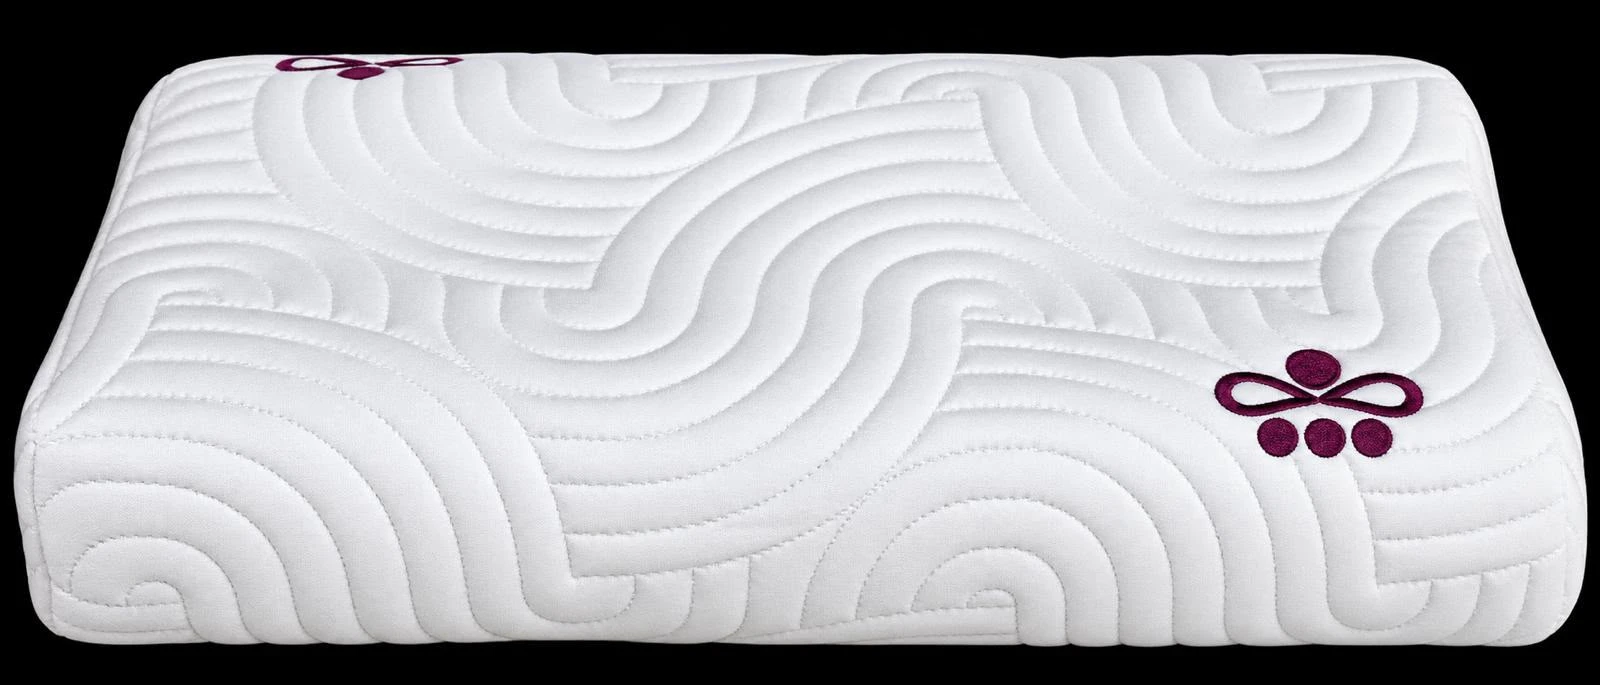
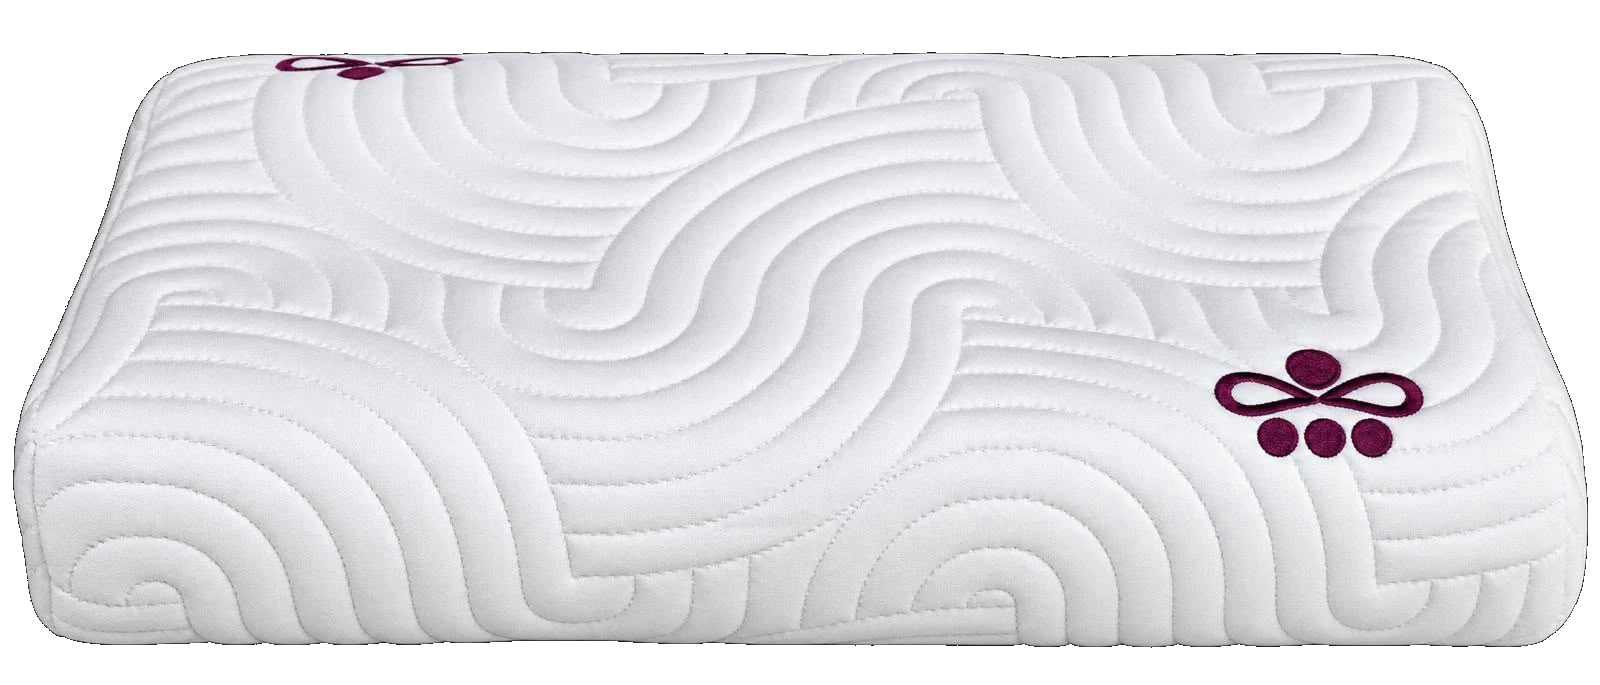
Update mattress content/images, fix neck pillow adjustability, stop over-cropping product photos
Mattress (per client's corrected product brief):
- Rewrite description/details (DE+EN) in products.ts to match the
  client's new copy about the reversible firmness system: H2/H3 and
  H3/H4 editions, flip-core mechanism, integrated loose Viscogel
  topper inside the shared cover, and the dual-core setup from 160 cm
  width.
- Add the two real layer-cutaway photos the client sent, matched to
  their official color key (H2 = turquoise, H3 = anthracite, H4 =
  lilac, topper = blue/white marbled) via the confirmed mapping in
  SomnoBalance_Produktinformation_Matratze_1Seite.pdf, and wire them
  into the mattress's gallery right after the main product shot.
- Add German/English captions under the gallery image explaining
  what each layer-stack photo shows, via a new optional
  galleryCaptions field on ProductSystemConfig (keyed by gallery
  index) — without this, the layer photos would be unexplained to a
  shopper.

Neck pillow:
- Add the new six-position height-settings diagram image to its
  gallery with an explanatory caption (reversible for higher/lower
  neck roll, plus 0/1/2 insert plates, ~8–15 cm).
- Clarify the "six height settings" detail line to actually name the
  flip mechanism alongside the insert plates, matching the diagram.
- Fix a black-background artifact on neck-pillow-detail-top.webp via
  flood-fill-from-edges (same technique used earlier in this
  project), and the same fix on mattress-detail-handle.webp, which
  had a black triangle in one corner.
[…]

Changed region(s): [[0.0, 0.0, 1.0, 1.0]]

diff --git a/src/lib/products.ts b/src/lib/products.ts
@@ -263,7 +263,7 @@ export const products: Product[] = [
     details: [
       "Approx. 30 × 60 cm",
       "Open-pore Air-Memory foam core",
-      "2 integrated insert plates — six height settings in total",
+      "Reversible: flip for a higher or lower neck roll, plus 2 insert plates — six height settings in total, approx. 8–15 cm",
       "Cover removable, washable at 30°C",
       "Foam core: gentle hand wash only, air dry — not machine washable or suitable for the dryer",
       "Cover fabric: Vitalize®, a polyester textile with ceramic mineral crystals (far-infrared, per manufacturer)",
@@ -284,7 +284,7 @@ export const products: Product[] = [
         details: [
           "Ca. 30 × 60 cm",
           "Offenporiger Air-Memory-Schaumstoffkern",
-          "2 integrierte Einlegeplatten — insgesamt sechs Höheneinstellungen",
+          "Wendbar: höhere oder niedrigere Nackenrolle durch Wenden, dazu 2 Einlegeplatten — insgesamt sechs Höheneinstellungen, ca. 8–15 cm",
           "Bezug abnehmbar, waschbar bei 30 °C",
           "Schaumstoffkern: nur schonende Handwäsche, an der Luft trocknen — nicht maschinenwaschbar oder trocknergeeignet",
           "Bezugsstoff: Vitalize®, ein Polyestertextil mit keramischen Mineralkristallen (Fern-Infrarot, laut Hersteller)",
@@ -297,17 +297,21 @@ export const products: Product[] = [
     name: "SomnoBalance Mattress",
     category: "Sleep",
     shippingIncluded: true,
-    tagline: "A reversible 7-zone pocket-spring mattress with two firmness levels.",
+    tagline: "Lie individually. Adjust comfort flexibly. Sleep regeneratively.",
     description:
-      "The SomnoBalance Mattress combines a 7-zone pocket-spring core with a reversible inner core and an integrated Viscogel topper. The spring core — around 500 springs at 100 × 200 cm — is covered on both sides with roughly 3 cm of high-quality cold foam (RG 40). The inner core can be flipped to offer two firmness levels in one mattress: H2/H3 on one side, H3/H4 on the other. A roughly 4 cm topper of pressure-relieving Viscogel (RG 50) sits on top, finished with the Vitalize® cover fabric. A four-sided zip allows the upper cover panel to be removed for access to the inner core, and four embroidered handles help with turning and adjusting firmness. From 160 cm wide, the mattress uses two separate inner cores under one continuous topper and cover, so each side of the bed can be set independently.",
+      "The SomnoBalance Mattress combines a high-quality 7-zone pocket-spring core, two selectable firmness levels and an integrated Viscogel topper into one considered sleep system. What makes it different: the mattress adapts as your comfort needs change. Instead of committing to a single firmness forever, the inner core simply flips over, changing the firmness in a few simple steps. Available in two editions — H2/H3 (choose between firmness H2 and H3) or H3/H4 (choose between firmness H3 and H4). Inside, a high-quality 7-zone pocket-spring core with around 500 springs at 100 × 200 cm is covered on both sides with roughly 3 cm of high-quality cold foam (RG 40); the two sides carry different firmness levels, so flipping the inner core switches between H2 and H3 (H2/H3 edition) or between H3 and H4 (H3/H4 edition). A roughly 4 cm pressure-relieving Viscogel topper (RG 50) sits loose on top of the reversible inner core — inner core and topper sit together inside the high-quality SomnoBalance cover with Vitalize® fabric, so the mattress combines the comfort of a separate topper with the benefits of a closed mattress system: the topper stays integrated into the whole and won't slide around. To change the firmness, a four-sided zip opens the upper cover panel, the Viscogel topper lifts off, the inner core flips over, and the topper goes back on top — zip closed, done. Four embroidered handles make turning and handling the inner core easier. From 160 cm wide, two separate inner cores sit under one continuous topper and one shared cover, so each side of the bed can be set to its own firmness independently while the continuous surface keeps a harmonious feel.",
     details: [
-      "7-zone pocket-spring core, reversible for two firmness levels (H2/H3 or H3/H4)",
-      "Cold foam cover, both sides, approx. 3 cm, RG 40",
-      "Viscogel topper, approx. 4 cm, RG 50, pressure-relieving",
-      "Cover: Vitalize® textile with ceramic mineral crystals (far-infrared, per manufacturer), HyperSoft quilting, 250 g/m² climate fibre",
-      "Four-sided zip, removable upper cover panel",
-      "4 embroidered carry handles",
-      "160 cm width and above: two independent cores under one continuous topper and cover",
+      "Editions: H2/H3 or H3/H4",
+      "Firmness adjustment: by flipping the inner core",
+      "Spring core: 7-zone pocket-spring core",
+      "Spring count: approx. 500 springs at 100 × 200 cm",
+      "Core cover: both sides approx. 3 cm cold foam, RG 40",
+      "Topper: approx. 4 cm Viscogel, RG 50",
+      "Topper system: sits loose on the inner core, integrated within the shared mattress cover",
+      "Cover: high-quality SomnoBalance cover with Vitalize® fabric",
+      "Opening: four-sided zip",
+      "Handling: 4 embroidered handles",
+      "From 160 cm wide: two separately reversible inner cores under one continuous topper and cover",
       "Made to order: manufacturing and delivery take approx. 3–4 weeks",
       "Shipped via DHL, Germany only, shipping cost included in the price — 160 cm width and above arrives as 3–4 separate parcels",
       "Allow the mattress 48–72 hours after unpacking to fully expand to its final shape and firmness",
@@ -332,17 +336,21 @@ export const products: Product[] = [
     translations: {
       de: {
         name: "SomnoBalance Matratze",
-        tagline: "Regeneration endet nicht mit dem Abendritual.",
+        tagline: "Individuell liegen. Komfort flexibel anpassen. Regenerativ schlafen.",
         description:
-          "Die SomnoBalance Matratze verbindet einen 7-Zonen-Taschenfederkern mit einem wendbaren Kern und integriertem Viscogel-Topper. Der Federkern — rund 500 Federn bei 100 × 200 cm — ist beidseitig mit ca. 3 cm hochwertigem Kaltschaum (RG 40) bezogen. Der Kern lässt sich wenden und bietet so zwei Härtegrade in einer Matratze: H2/H3 auf einer Seite, H3/H4 auf der anderen. Ein ca. 4 cm starker Topper aus druckentlastendem Viscogel (RG 50) liegt darüber, veredelt mit dem Bezugsstoff Vitalize®. Ein vierseitiger Reißverschluss ermöglicht das Abnehmen des oberen Bezugsteils für den Zugang zum Kern, vier eingestickte Griffe erleichtern das Wenden und Anpassen der Härte. Ab 160 cm Breite kommen zwei getrennte Kerne unter einem durchgehenden Topper und Bezug zum Einsatz, sodass jede Bettseite unabhängig eingestellt werden kann.",
+          "Die SomnoBalance Matratze verbindet einen hochwertigen 7-Zonen-Taschenfederkern, zwei wählbare Festigkeiten und einen integrierten Visko-Gel-Topper zu einem durchdachten Schlafsystem. Das Besondere: Die Matratze passt sich veränderten Komfortbedürfnissen an. Statt sich dauerhaft auf nur einen Härtegrad festlegen zu müssen, lässt sich der Innenkern einfach wenden und die gewünschte Festigkeit mit wenigen Handgriffen verändern. Die SomnoBalance Matratze ist in zwei Varianten erhältlich: H2/H3 (wählbar zwischen Härtegrad H2 und H3) und H3/H4 (wählbar zwischen Härtegrad H3 und H4). Im Inneren arbeitet ein hochwertiger 7-Zonen-Taschenfederkern mit rund 500 Federn bei 100 × 200 cm. Dieser ist auf beiden Seiten mit jeweils ca. 3 cm hochwertigem Kaltschaum RG 40 abgedeckt. Die beiden Seiten besitzen unterschiedliche Festigkeiten — durch einfaches Wenden des Innenkerns kann bei der Variante H2/H3 zwischen H2 und H3 und bei der Variante H3/H4 zwischen H3 und H4 gewechselt werden. Ein weiterer besonderer Vorteil der SomnoBalance Matratze ist der integrierte Topper: Ein ca. 4 cm starker, druckentlastender Visko-Gel-Topper RG 50 liegt lose auf dem wendbaren Innenkern. Innenkern und Topper befinden sich jedoch gemeinsam innerhalb des hochwertigen SomnoBalance Matratzenbezuges mit Vitalize®-Stoff. Dadurch verbindet die SomnoBalance Matratze den Komfort eines separaten Toppers mit den Vorteilen einer geschlossenen Matratzenlösung: Der Topper bleibt in das Gesamtsystem integriert und lästiges Verrutschen wird vermieden. Soll das Liegegefühl verändert werden, lässt sich das System unkompliziert anpassen: Der vierseitige Reißverschluss ermöglicht das Öffnen des oberen Bezugsteils, anschließend wird der Visko-Gel-Topper abgenommen, der Innenkern gewendet und der Topper wieder auf den Kern gelegt — Bezug schließen, fertig. Vier eingestickte Griffe erleichtern das Wenden und die Handhabung des Innenkerns zusätzlich. Bei Matratzen ab 160 cm Breite kommen zwei getrennte Innenkerne unter einem durchgehenden Topper und einem gemeinsamen Bezug zum Einsatz, sodass jede Bettseite unabhängig auf die gewünschte Festigkeit eingestellt werden kann, während die durchgehende Oberfläche für ein harmonisches Liegegefühl sorgt.",
         details: [
-          "7-Zonen-Taschenfederkern, wendbar für zwei Härtegrade (H2/H3 oder H3/H4)",
-          "Kaltschaumauflage beidseitig, ca. 3 cm, RG 40",
-          "Viscogel-Topper, ca. 4 cm, RG 50, druckentlastend",
-          "Bezug: Vitalize®-Textil mit keramischen Mineralkristallen (Fern-Infrarot, laut Hersteller), HyperSoft-Steppung, 250 g/m² Klimafaser",
-          "Vierseitiger Reißverschluss, abnehmbares oberes Bezugsteil",
-          "4 eingestickte Tragegriffe",
-          "Ab 160 cm Breite: zwei unabhängige Kerne unter einem durchgehenden Topper und Bezug",
+          "Ausführungen: H2/H3 oder H3/H4",
+          "Festigkeitsanpassung: durch Wenden des Innenkerns",
+          "Federkern: 7-Zonen-Taschenfederkern",
+          "Federanzahl: ca. 500 Federn bei 100 × 200 cm",
+          "Kernabdeckung: beidseitig ca. 3 cm Kaltschaum RG 40",
+          "Topper: ca. 4 cm Visko-Gel RG 50",
+          "Topper-System: lose auf dem Innenkern, innerhalb des gemeinsamen Matratzenbezuges integriert",
+          "Bezug: hochwertiger SomnoBalance Bezug mit Vitalize®-Stoff",
+          "Öffnung: vierseitiger Reißverschluss",
+          "Handhabung: vier eingestickte Griffe",
+          "Ab 160 cm Breite: zwei separat wendbare Innenkerne unter durchgehendem Topper und Bezug",
           "Anfertigung auf Bestellung: Fertigung und Lieferung dauern ca. 3–4 Wochen",
           "Versand per DHL, nur innerhalb Deutschlands, Versandkosten im Preis enthalten — ab 160 cm Breite als 3–4 separate Pakete",
           "Der Matratze nach dem Auspacken 48–72 Stunden Zeit geben, um sich vollständig zu entfalten und ihre endgültige Form und Härte anzunehmen",

diff --git a/src/components/lovable/productSystemConfigs.ts b/src/components/lovable/productSystemConfigs.ts
@@ -209,7 +209,11 @@ export const productSystemConfigs: Record<string, ProductSystemConfig> = {
       "/products/somnobalance-neck-pillow.webp",
       "/products/neck-pillow-detail-top.webp",
       "/products/neck-pillow-detail-corner.webp",
+      "/products/neck-pillow-height-settings.webp",
     ],
+    galleryCaptions: {
+      3: "Sechs Höheneinstellungen: Kissen wenden für höhere oder niedrigere Nackenrolle, dazu 0, 1 oder 2 Einlegeplatten — von ca. 8 cm bis ca. 15 cm.",
+    },
     howToUseEyebrow: "Schlafumgebung",
     howToUseTitle: ["Die Nacht braucht andere", "Bedingungen als der Tag."],
     howToUseImage: "/products/pillow.webp",
@@ -231,6 +235,9 @@ export const productSystemConfigs: Record<string, ProductSystemConfig> = {
       en: {
         systemRoleLabel: "SLEEP ENVIRONMENT · REGENERATE",
         galleryTagline: ["The night needs", "different conditions."],
+        galleryCaptions: {
+          3: "Six height settings: flip the pillow for a higher or lower neck roll, then add 0, 1 or 2 insert plates — from approx. 8 cm to approx. 15 cm.",
+        },
         howToUseEyebrow: "Sleep Environment",
         howToUseTitle: ["The night needs different", "conditions than the day."],
         howToUseSteps: ["Adjust height", "Find position", "Settle down", "Regenerate"],
@@ -245,10 +252,16 @@ export const productSystemConfigs: Record<string, ProductSystemConfig> = {
     galleryTagline: ["Was Sie durch", "die Nacht trägt."],
     galleryImages: [
       "/products/somnobalance-mattress.webp",
+      "/products/mattress-layers-h2-h3.webp",
+      "/products/mattress-layers-h3-h4.webp",
       "/products/mattress-detail-quilting.webp",
       "/products/mattress-detail-vitalize.webp",
       "/products/mattress-detail-handle.webp",
     ],
+    galleryCaptions: {
+      1: "Variante H2/H3: Visko-Gel-Topper (blau/weiß marmoriert) · H2 türkisgrün · Kern · H3 anthrazit",
+      2: "Variante H3/H4: Visko-Gel-Topper (blau/weiß marmoriert) · H3 anthrazit · Kern · H4 fliederfarben",
+    },
     howToUseImage: "/products/bed.webp",
     howToUseEyebrow: "Schlafumgebung",
     howToUseTitle: ["Was Sie durch", "die Nacht trägt."],
@@ -270,6 +283,10 @@ export const productSystemConfigs: Record<string, ProductSystemConfig> = {
       en: {
         systemRoleLabel: "SLEEP ENVIRONMENT · REGENERATE",
         galleryTagline: ["What carries you", "through the night."],
+        galleryCaptions: {
+          1: "H2/H3 edition: Viscogel topper (blue/white marbled) · H2 turquoise · core · H3 anthracite",
+          2: "H3/H4 edition: Viscogel topper (blue/white marbled) · H3 anthracite · core · H4 lilac",
+        },
         howToUseEyebrow: "Sleep Environment",
         howToUseTitle: ["What carries you", "through the night."],
         howToUseSteps: ["Choose firmness", "Can be flipped", "Settle down", "Regenerate"],

diff --git a/src/components/lovable/ProductSystemPage.tsx b/src/components/lovable/ProductSystemPage.tsx
@@ -84,6 +84,7 @@ export type ProductSystemConfig = {
   systemRoleLabel: string; // e.g. "RITUAL · REGULATE" shown top-left of hero
   galleryTagline: string[]; // lines shown over the hero image, top-left
   galleryImages?: string[]; // real additional angles for the hero gallery; falls back to repeating product.image when unset
+  galleryCaptions?: Record<number, string>; // de captions keyed by index into galleryImages, e.g. explaining a firmness-layer photo; untagged images show no caption
   howToUseEyebrow: string;
   howToUseTitle: string[];
   howToUseImage?: string; // real application-sequence photo; leave unset to show a placeholder until one exists
@@ -100,6 +101,7 @@ export type ProductSystemConfig = {
     en?: {
       systemRoleLabel?: string;
       galleryTagline?: string[];
+      galleryCaptions?: Record<number, string>;
       howToUseEyebrow?: string;
       howToUseTitle?: string[];
       howToUseSteps?: string[];
@@ -216,7 +218,7 @@ export function ProductSystemPage({
                 alt={text.name}
                 width={1200}
                 height={1200}
-                className="h-full w-full object-cover"
+                className="h-full w-full object-contain"
               />
               <div className="absolute bottom-10 left-10 hidden text-[11px] uppercase leading-[2] tracking-[0.25em] text-lovable-primary md:block">
                 {c.galleryTagline.map((line, i) => (
@@ -244,6 +246,9 @@ export function ProductSystemPage({
                 <ArrowRight className="size-4" />
               </button>
             </div>
+            {c.galleryCaptions?.[active] && (
+              <p className="mt-3 text-sm text-lovable-muted-foreground">{c.galleryCaptions[active]}</p>
+            )}
             <div className="mt-4 flex items-center gap-3">
               <Button
                 variant="outline"
@@ -270,7 +275,7 @@ export function ProductSystemPage({
                       alt=""
                       width={300}
                       height={300}
-                      className="h-full w-full object-cover"
+                      className="h-full w-full object-contain"
                     />
                   </button>
                 ))}

diff --git a/src/components/ProductGallery.tsx b/src/components/ProductGallery.tsx
@@ -26,7 +26,7 @@ export function ProductGallery({
           alt={alt}
           fill
           sizes="(min-width: 1024px) 50vw, 100vw"
-          className="object-cover"
+          className="object-contain"
           priority
         />
         {overlay}
@@ -66,7 +66,7 @@ export function ProductGallery({
                 }`}
               >
                 <div className="relative h-full w-full overflow-hidden rounded-lg">
-                  <Image src={imgSrc} alt="" fill className="object-cover" />
+                  <Image src={imgSrc} alt="" fill className="object-contain" />
                 </div>
               </button>
             ))}

diff --git a/src/app/[lang]/shop/ShopClient.tsx b/src/app/[lang]/shop/ShopClient.tsx
@@ -501,7 +501,7 @@ export function ShopClient({ products, lang, dict }: { products: any[]; lang: Lo
                           alt={text.name}
                           fill
                           sizes="(min-width: 1280px) 25vw, (min-width: 640px) 50vw, 100vw"
-                          className="object-cover transition duration-300 group-hover:scale-105"
+                          className="object-contain p-6 transition duration-300 group-hover:scale-105"
                         />
                       </div>
 

diff --git a/src/components/ProductCard.tsx b/src/components/ProductCard.tsx
@@ -29,7 +29,7 @@ export function ProductCard({
           alt={text.name}
           fill
           sizes="(min-width: 1024px) 33vw, (min-width: 640px) 50vw, 100vw"
-          className="object-cover transition duration-500 group-hover:scale-105"
+          className="object-contain p-6 transition duration-500 group-hover:scale-105"
         />
       </Link>
 
